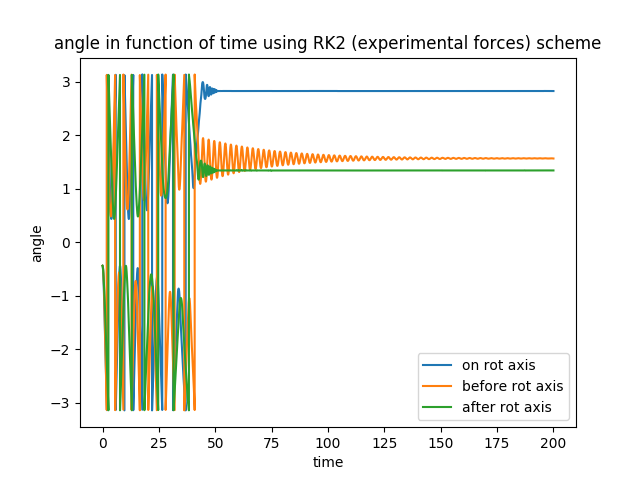
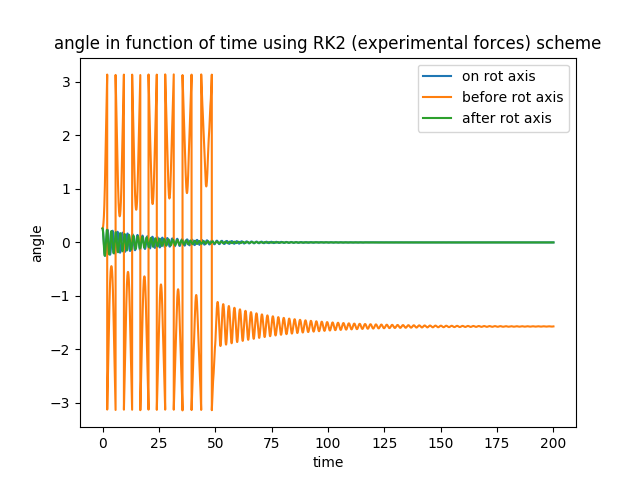
added drag MW to CFD calculations

diff --git a/mainWingSimulator.py b/mainWingSimulator.py
@@ -120,9 +120,9 @@ def aerodynamicForcesCFD(alpha,tailAngle):
 
 	liftForceSW = 17.677*(wrapTo2pi(alpha-tailAngle)) # experimental formula
 
-	dragForceMW = 2
+	dragForceMW = 101.086*alpha-10.596
 
-	dragForceSW = 2
+	dragForceSW = 0 #28.356*(alpha-tailAngle)**2-5.767*(alpha-tailAngle)+0.068
 
 	return (liftForceMW, liftForceSW, dragForceMW, dragForceSW)
 
@@ -134,9 +134,9 @@ def aerodynamicForcesTheory(alpha,tailAngle):
 
 	liftForceSW = constPartWindForceSW*SWDesignedLiftCoefficient*wrapTo2pi(dontKnowHowToName*alpha-tailAngle)*5.91
 	#print(5.91*constpartwindforcesw*swdesignedliftcoefficient, "wr", wrapto2pi(dontknowhowtoname*alpha))
-	dragforcemw = 2
+	dragforcemw = 0
 
-	dragforcesw = 2
+	dragforcesw = 0
 
 	return (liftforcemw, liftforcesw, dragforcemw, dragforcesw)
 
@@ -153,25 +153,25 @@ def equationθpp(state, truewindangle,positionAerodynamicCenter ='a', aerodynami
 	else:
 		liftForceMW,liftForceSW,dragForceMW,dragForceSW = aerodynamicForcesCFD(alpha,tailAngle)   
 	tailRelatedPartLift     = distanceTail*liftForceSW
-	tailRelatedPartDrag     = 0
+#	tailRelatedPartDrag     = 0
 #	MWRelatedPartDrag = 0
 #	Uncomment the following line to add drag to the similation
-#	tailRelatedPartDrag     = dragTail(alpha,tailAngle)
+	tailRelatedPartDrag     = dragForceSW
 	tailRelatedPart         = (tailRelatedPartLift*np.cos(alpha)-tailRelatedPartDrag*np.sin(alpha))/momentOfInertiaStructureOnMast
 	if positionAerodynamicCenter == 'O':
 		return(tailRelatedPart)
 	elif positionAerodynamicCenter == 'B':
 		MWRelatedPartLift   = distanceMWB*liftForceMW
-		MWRelatedPartDrag   = 0
+#		MWRelatedPartDrag   = 0
 #		Uncomment the following line to add drag to the similation
-#		MWRelatedPartDrag = distanceMWB*CoeffDragServo
+		MWRelatedPartDrag   = distanceMWB*dragForceMW
 		MWRelatedPart       = (MWRelatedPartLift*np.cos(alpha)-MWRelatedPartDrag*np.sin(alpha))/momentOfInertiaStructureOnMast
 		return(tailRelatedPart+MWRelatedPart)
 	elif positionAerodynamicCenter == 'A':
 		MWRelatedPartLift   = distanceMWA*liftForceMW
-		MWRelatedPartDrag   = 0
+#		MWRelatedPartDrag   = 0
 #		Uncomment the following line to add drag to the similation
-#		MWRelatedPartDrag = distanceMWA*CoeffDragServo
+		MWRelatedPartDrag   = distanceMWA*dragForceMW
 		MWRelatedPart       = (MWRelatedPartLift*np.cos(alpha)-MWRelatedPartDrag*np.sin(alpha))/momentOfInertiaStructureOnMast
 		return(tailRelatedPart+MWRelatedPart)
 
@@ -257,7 +257,7 @@ def equilibriumAngleForDifferentTailAngles(stop = 200, trueWindAngle = 0, positi
 
 if __name__ == '__main__':
 
-	
+	"""
 	dt                          = 0.01
 	t                           = 0
 	fig                         = plt.figure()
@@ -285,7 +285,7 @@ if __name__ == '__main__':
 		drawHull(0)
 		plt.pause(0.0001)
 	plt.show()
-	
+	"""
 
 
 
@@ -308,7 +308,7 @@ if __name__ == '__main__':
 
 	# ==== Equilibrium position in function of the position of the aerodynamic center (Experimental forces) ===== #
 	
-	"""
+	
 	plt.figure()
 	timesRK2,statesRK2O = rk2Scheme(wingState,0,200, 0.01, evolution, trueWindAngle,'O','CFD')
 	drawWingSailAngle(timesRK2,statesRK2O[0,:],'on rot axis','RK2')
@@ -319,8 +319,8 @@ if __name__ == '__main__':
 	timesRK2,statesRK2A = rk2Scheme(wingState,0,200, 0.01, evolution, trueWindAngle,'A','CFD')
 	drawWingSailAngle(timesRK2,statesRK2A[0,:],'after rot axis','RK2 (experimental forces)')
 	plt.legend()
-	plt.savefig('Simulation_pics/Comparison position aerodynamic center for experimental aerodynamic forces.png')
-	"""
+	plt.savefig('Simulation_pics/Comparison position aerodynamic center for experimental aerodynamic forces2.png')
+	
 	
 	# ===== Equilibrium position in function of the forces (aerodynamic center behind the mast) ===== #
 	"""
